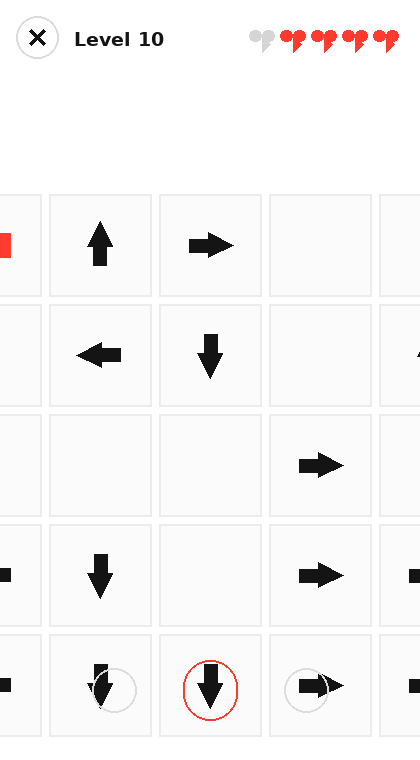
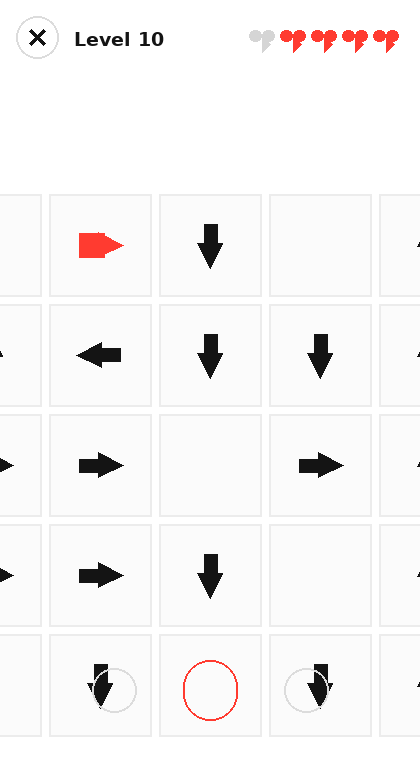
Steepen difficulty: more arrows & complexity every level — monotonic cell growth (3x3→10x10), denser boards (L1:6→L100:64 arrows), inward-direction bias + start-ratio filter for deeper dependency chains

diff --git a/web/js/levels.js b/web/js/levels.js
@@ -249,8 +249,20 @@
 
   /* ---------- generator ---------- */
   /* Reverse-construction generator. Always solvable.
-   * Only playable (non-wall) cells receive arrows; walls act as exit edges. */
-  function generate(size, density, seed, shape) {
+   * Only playable (non-wall) cells receive arrows; walls act as exit edges.
+   *
+   * Two complexity levers:
+   *   1. INWARD DIRECTION BIAS (`opts.inwardBias`): when placing an arrow we try
+   *      directions pointing toward the board center first. Inward-pointing
+   *      arrows are naturally blocked at the start of the level, so fewer
+   *      arrows are instantly removable => deeper dependency chains.
+   *   2. START-RATIO FILTER (`opts.maxStartRatio`): if too many arrows are
+   *      removable at the start (ratio = startRemovable / total), re-roll with
+   *      a derived seed (bounded retries). */
+  function generate(size, density, seed, shape, opts) {
+    opts = opts || {};
+    var tries = opts._tries || 0;
+    var bias = opts.inwardBias || 0;
     var rng = mulberry32(seed);
     var mask = makeMask(size, shape || 'rect');
     var grid = emptyGrid(size);
@@ -262,6 +274,7 @@
     var playable = playableCount(mask);
     var target = Math.round(playable * density);
     var minArrows = Math.min(target, Math.max(3, Math.floor(playable * 0.45)));
+    var ccx = (size - 1) / 2, ccy = (size - 1) / 2;
 
     /* pool of empty playable cells */
     var empty = [];
@@ -274,7 +287,16 @@
     while (placement.length < target && empty.length > 0 && attempts++ < 8000) {
       var cell = empty.pop();
       var dirs = [UP, RIGHT, DOWN, LEFT];
-      shuffle(dirs, rng);
+      /* sort directions: strongest "toward center" first */
+      if (bias > 0) {
+        dirs.sort(function (a, b) {
+          var wa = 1 + bias * Math.max(0, (ccx - cell.x) * DX[a] + (ccy - cell.y) * DY[a]) / (size / 2);
+          var wb = 1 + bias * Math.max(0, (ccx - cell.x) * DX[b] + (ccy - cell.y) * DY[b]) / (size / 2);
+          return wb - wa;
+        });
+      } else {
+        shuffle(dirs, rng);
+      }
       var placedDir = -1;
       for (var i = 0; i < dirs.length; i++) {
         if (pathClear(grid, size, cell.x, cell.y, dirs[i])) { placedDir = dirs[i]; break; }
@@ -284,34 +306,59 @@
       placement.push({ x: cell.x, y: cell.y, dir: placedDir });
     }
 
-    if (placement.length < minArrows) {
-      /* Too sparse — retry with a fresh derived seed (still deterministic per level) */
-      return generate(size, density, (seed * 2654435761 + 97) >>> 0, shape);
+    /* too sparse (density target not reached) — retry with lower density, bounded */
+    if (placement.length < minArrows && tries < 16) {
+      return generate(size, Math.max(0.40, density - 0.02), (seed * 2654435761 + 97) >>> 0, shape,
+        { _tries: tries + 1, maxStartRatio: opts.maxStartRatio, maxTries: opts.maxTries, inwardBias: bias });
+    }
+    if (placement.length < 2) {
+      /* last-resort safety: never return an unplayable board */
+      return generate(size, Math.max(0.40, density - 0.05), (seed * 2654435761 + 97) >>> 0, shape,
+        { _tries: tries + 1, maxStartRatio: opts.maxStartRatio, maxTries: opts.maxTries, inwardBias: bias });
     }
 
-    return {
+    var board = {
       size: size,
       shape: shape || 'rect',
       mask: mask,
       grid: grid,
       solution: placement.slice().reverse() /* valid removal order */
     };
+
+    /* complexity filter: too many instantly-removable arrows = trivial level */
+    if (opts.maxStartRatio != null && tries < (opts.maxTries || 14)) {
+      var startRemovable = removableArrows(grid, size).length;
+      if (startRemovable / placement.length > opts.maxStartRatio) {
+        return generate(size, density, (seed * 2654435761 + 97) >>> 0, shape,
+          { _tries: tries + 1, maxStartRatio: opts.maxStartRatio, maxTries: opts.maxTries, inwardBias: bias });
+      }
+    }
+
+    return board;
   }
 
-  /* Difficulty curve by level number — matches the original: rectangular early,
-   * then circular, diamond, heart, knight, cross as the game deepens. */
+  /* Difficulty curve by level number.
+   * - Board sizes/shapes are ordered so PLAYABLE CELLS GROW every level:
+   *   3x3(9) → 4x4(16) → 5x5(25) → 6x6(36) → circle8(44) → heart8(52) →
+   *   cross9(65) → rect9(81) → rect10(100)
+   * - Density ramps WITHIN each band so every consecutive level is denser
+   *   (more arrows each level), staying below each board's fill saturation.
+   * - inwardBias ≈ 0.6 makes most arrows point inward => few obvious first
+   *   moves; maxStartRatio shrinks over time => deeper dependency chains. */
   function levelParams(level) {
-    if (level < 3)   return { size: 3, shape: 'rect', density: 0.55 };
-    if (level < 6)   return { size: 4, shape: 'rect', density: 0.60 };
-    if (level < 11)  return { size: 5, shape: 'rect', density: 0.62 };
-    if (level < 19)  return { size: 6, shape: 'circle', density: 0.62 };
-    if (level < 31)  return { size: 7, shape: 'diamond', density: 0.62 };
-    if (level < 46)  return { size: 8, shape: 'heart', density: 0.60 };
-    if (level < 61)  return { size: 9, shape: 'knight', density: 0.60 };
-    if (level < 81)  return { size: 9, shape: 'cross', density: 0.60 };
-    if (level < 101) return { size: 9, shape: 'rect', density: 0.66 };
-    return { size: Math.min(10, 9 + Math.floor((level - 100) / 50)), shape: 'rect',
-             density: Math.min(0.70, 0.64 + Math.floor((level - 100) / 50) * 0.02) };
+    /* maxStartRatio values are calibrated to what inward-bias construction can
+     * actually achieve (bigger boards have a higher structural floor). */
+    if (level < 3)   return { size: 3, shape: 'rect', density: 0.72 + (level - 1) * 0.06, maxStartRatio: 0.50 };
+    if (level < 6)   return { size: 4, shape: 'rect', density: 0.70 + (level - 3) * 0.02, maxStartRatio: 0.40 };
+    if (level < 11)  return { size: 5, shape: 'rect', density: 0.68 + (level - 6) * 0.015, maxStartRatio: 0.38 };
+    if (level < 19)  return { size: 6, shape: 'rect', density: 0.66 + (level - 11) * 0.01, maxStartRatio: 0.36 };
+    if (level < 31)  return { size: 8, shape: 'circle', density: 0.64 + (level - 19) * 0.006, maxStartRatio: 0.35 };
+    if (level < 46)  return { size: 8, shape: 'heart', density: 0.62 + (level - 31) * 0.005, maxStartRatio: 0.34 };
+    if (level < 61)  return { size: 9, shape: 'cross', density: 0.62 + (level - 46) * 0.004, maxStartRatio: 0.34 };
+    if (level < 81)  return { size: 9, shape: 'rect', density: 0.63 + (level - 61) * 0.003, maxStartRatio: 0.37 };
+    if (level < 101) return { size: 10, shape: 'rect', density: 0.61 + (level - 81) * 0.002, maxStartRatio: 0.40 };
+    return { size: 10, shape: 'rect', density: Math.min(0.64, 0.63 + Math.floor((level - 100) / 20) * 0.004),
+             maxStartRatio: 0.39 };
   }
 
   function hashStr(s) {
@@ -323,7 +370,8 @@
   function buildLevel(level) {
     var p = levelParams(level);
     var seed = (level * 2654435761) ^ (p.size * 48271) ^ hashStr(p.shape) ^ Math.round(p.density * 1000);
-    return generate(p.size, p.density, seed >>> 0, p.shape);
+    return generate(p.size, p.density, seed >>> 0, p.shape,
+      { maxStartRatio: p.maxStartRatio, maxTries: 14, inwardBias: 0.6 });
   }
 
   /* Next arrow to remove per the known solution (used by the hint system) */

diff --git a/web/test/levels.test.js b/web/test/levels.test.js
@@ -126,7 +126,47 @@ console.log('Levels library loaded. Running generator + solver tests...\n');
   const t0 = Date.now();
   for (let lvl = 1; lvl <= 2000; lvl++) L.buildLevel(lvl);
   const ms = Date.now() - t0;
-  check('2000 levels generated in ' + ms + 'ms (fast enough for instant play)', ms < 5000, ms + 'ms');
+  check('2000 levels generated in ' + ms + 'ms (fast enough for instant play)', ms < 8000, ms + 'ms');
+}
+
+// 7) Difficulty curve: MORE arrows, MORE complexity, every level
+{
+  console.log('[7] Difficulty curve — arrows & complexity grow with level');
+  let cellsPrev = 0;
+  let cellDips = 0;
+  let ratioTarget = 0;
+  let ratioTotal = 0;
+  let prevArrows = 0;
+  let firstHalf = 0, secondHalf = 0; // avg arrows in early vs late levels
+  for (let lvl = 1; lvl <= 300; lvl++) {
+    const lv = L.buildLevel(lvl);
+    const p = L.levelParams(lvl);
+    const total = L.countArrows(lv.grid);
+    const cells = L.playableCount(lv.mask);
+    if (lvl > 1 && cells < cellsPrev) cellDips++;
+    prevArrows = prevArrows || total;
+    if (lvl <= 150) firstHalf += total; else secondHalf += total;
+
+    const startRem = L.removableArrows(lv.grid, lv.size).length;
+    const ratio = startRem / total;
+    ratioTotal++;
+    if (p.maxStartRatio != null && ratio > p.maxStartRatio + 0.08) ratioTarget++;
+  }
+  check('playable cells never shrink across levels 1..300', cellDips === 0, cellDips + ' dips');
+  check('late levels (151-300) have more arrows than early (1-150)',
+    secondHalf / 150 > firstHalf / 150,
+    'early avg ' + (firstHalf / 150).toFixed(1) + ' vs late avg ' + (secondHalf / 150).toFixed(1));
+  check('start-removable ratio stays within 0.08 of target for >= 95% of levels',
+    ratioTarget / ratioTotal <= 0.05, ratioTarget + '/' + ratioTotal + ' over');
+
+  /* spot-check arrow counts are much higher than the old curve */
+  const counts = {};
+  for (const n of [1, 10, 30, 60, 100]) counts[n] = L.countArrows(L.buildLevel(n).grid);
+  check('level 1 has >= 6 arrows (was 5)', counts[1] >= 6, counts[1]);
+  check('level 10 has >= 17 arrows', counts[10] >= 17, counts[10]);
+  check('level 30 has >= 28 arrows', counts[30] >= 28, counts[30]);
+  check('level 60 has >= 40 arrows', counts[60] >= 40, counts[60]);
+  check('level 100 has >= 55 arrows', counts[100] >= 55, counts[100]);
 }
 
 console.log('\n' + (failures === 0 ? 'ALL TESTS PASSED ✔' : failures + ' FAILURES ✘'));

diff --git a/web/README.md b/web/README.md
@@ -17,7 +17,10 @@ Or just open `index.html` directly in a browser.
 
 - ✅ **Minimalist UI matching "Arrows – Puzzle Escape" (Lessmore)**: thin black arrows on white, 5 red hearts, "Level N" indicator, red-highlighted hint paths, light + dark themes
 - ✅ **Shaped boards like the original**: rectangular early, then circular (11+), diamond (19+), heart (31+), knight (46+), cross (61+)
-- ✅ Procedural level generator (reverse-construction, **guaranteed solvable**) + difficulty curve (3×3 → 10×10, 1000s of levels)
+- ✅ **Procedural level generator** (reverse-construction, **guaranteed solvable**) with a **steeper difficulty curve**:
+  - **More arrows**: level 1 has 6 arrows → level 10: 19 → level 30: 31 → level 60: 44 → level 100+: 64
+  - **More complexity every level**: board cells grow monotonically (3×3=9 → 4×4=16 → 5×5=25 → 6×6=36 → circle 8×8=44 → heart 8×8=52 → cross 9×9=65 → 9×9=81 → 10×10=100), density ramps within each band, and an **inward-direction bias** + **start-ratio filter** force deep dependency chains (fewer obvious first moves) as levels progress
+  - All 600+ levels still verified solvable by an independent exact solver
 - ✅ Core rules: tap an arrow → it slides out if its path to the edge is clear; blocked tap = lose a heart (5/level)
 - ✅ Hearts, hints (highlight safe arrow + its red path), undo (3/level), restart, next level
 - ✅ Win/lose flows, level select with progress + stars
